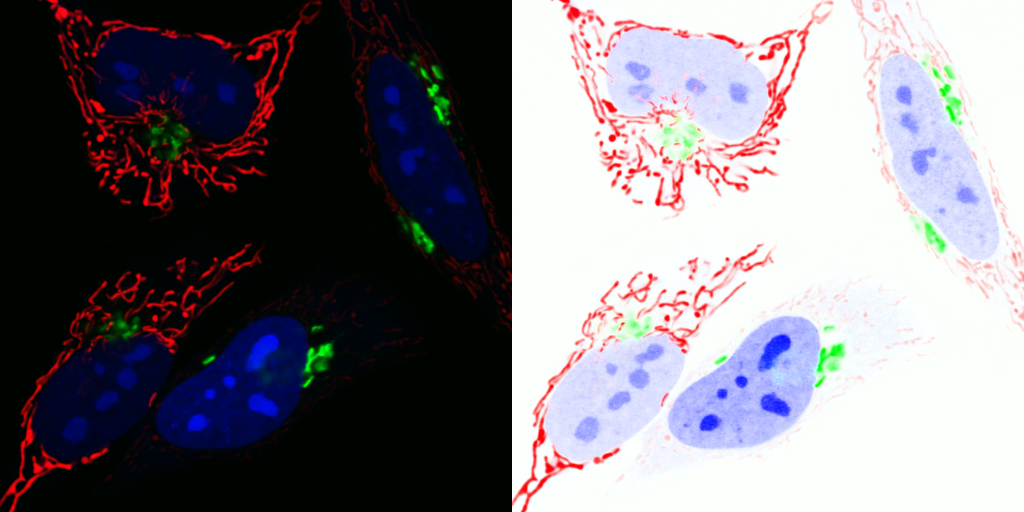
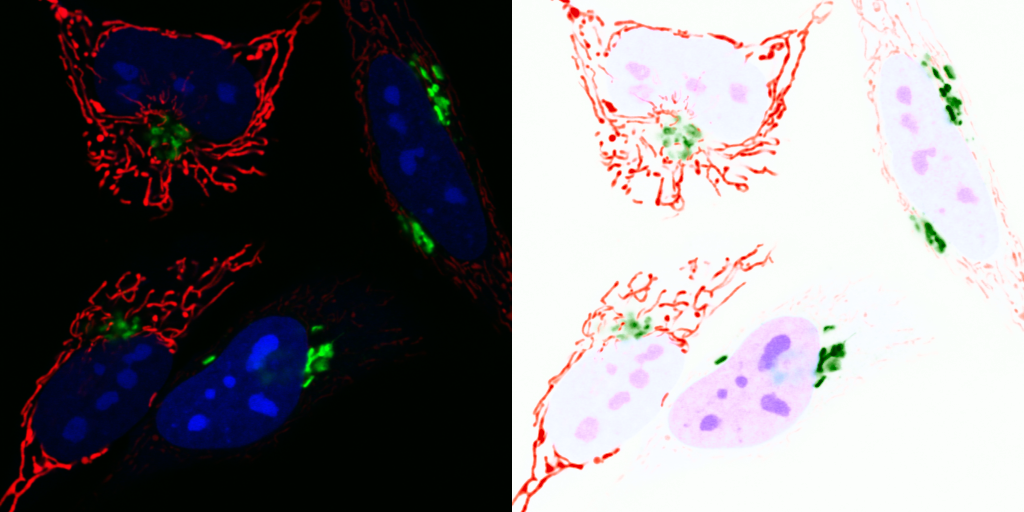
speed up!

Changed region(s): [[0.5312, 0.5938, 0.8438, 0.875], [0.8438, 0.0938, 0.9688, 0.5], [0.5938, 0.0625, 0.75, 0.3125]]

diff --git a/tohsl.py b/tohsl.py
@@ -3,69 +3,86 @@ import colorsys
 
 def custom_rgb_to_hls(r, g, b):
     sumc = r + g + b
-    if sumc < 2.05 and sumc > 1.95:
+    if np.abs(sumc - 2) < 0.05:
         return 0, 0.5, 0  
-    elif sumc < 0.05 and sumc > -0.05:
+    elif np.abs(sumc) < 0.05:
         return 0, 0, 0
     else:
-        h, l, s = colorsys.rgb_to_hls(r, g, b)
-        return h, l, s
+        return colorsys.rgb_to_hls(r, g, b)
 
+# Using Numpy's built-in functionality for broadcasting
 def rgb_to_hls(rgb_image):
     rgb_image = rgb_image.astype(float) / 255.0
-    hls_image = np.vectorize(custom_rgb_to_hls)(rgb_image[..., 0], rgb_image[..., 1], rgb_image[..., 2])
-    hls_image = np.stack(hls_image, axis=-1)
+    hls_image = np.apply_along_axis(lambda x: custom_rgb_to_hls(*x), -1, rgb_image)
     return hls_image
 
 def hls_to_rgb(hls_image):
-    print(np.max(hls_image),np.min(hls_image))
-    print(hls_image[300:500,300,:])
     rgb_converter = np.vectorize(colorsys.hls_to_rgb)
     r, g, b = rgb_converter(hls_image[..., 0], hls_image[..., 1], hls_image[..., 2])
-    rgb_image = np.stack([r, g, b], axis=-1)
-    print(np.max(rgb_image),np.min(rgb_image))
+    return np.stack([r, g, b], axis=-1) * 255
 
-    return (rgb_image * 255).astype(np.uint8) 
+def rgb_to_colorspace(rgb_image, conversion_func):
+    rgb_image = rgb_image.astype(float) / 255.0
+    converted_image = np.vectorize(conversion_func)(rgb_image[..., 0], rgb_image[..., 1], rgb_image[..., 2])
+    return np.stack(converted_image, axis=-1)
 
+def colorspace_to_rgb(color_image, conversion_func):
+    rgb_converter = np.vectorize(conversion_func)
+    r, g, b = rgb_converter(color_image[..., 0], color_image[..., 1], color_image[..., 2])
+    return np.stack([r, g, b], axis=-1) * 255
 
 def rgb_to_hsv(rgb_image):
-    rgb_image = rgb_image.astype(float) / 255.0
-    hsv_image = np.vectorize(colorsys.rgb_to_hsv)(rgb_image[..., 0], rgb_image[..., 1], rgb_image[..., 2])
-    hsv_image = np.stack(hsv_image, axis=-1)
-    return hsv_image
+    return rgb_to_colorspace(rgb_image, colorsys.rgb_to_hsv)
 
 def hsv_to_rgb(hsv_image):
-    rgb_converter = np.vectorize(colorsys.hsv_to_rgb)
-    r, g, b = rgb_converter(hsv_image[..., 0], hsv_image[..., 1], hsv_image[..., 2])
-    rgb_image = np.stack([r, g, b], axis=-1)
-
-    return (rgb_image * 255).astype(np.uint8) 
-
-'''
-def rgb_to_yiq(rgb_image):
-    rgb_image = rgb_image.astype(float) / 255.0
-    yiq_image = np.vectorize(colorsys.rgb_to_yiq)(rgb_image[..., 0], rgb_image[..., 1], rgb_image[..., 2])
-    yiq_image = np.stack(rgb_image, axis=-1)
-    return yiq_image
-
-def yiq_to_rgb(yiq_image):
-    rgb_converter = np.vectorize(colorsys.yiq_to_rgb)
-    r, g, b = rgb_converter(yiq_image[..., 0], yiq_image[..., 1], yiq_image[..., 2])
-    rgb_image = np.stack([r, g, b], axis=-1)
-
-    return (rgb_image * 255).astype(np.uint8) 
-'''
+    return colorspace_to_rgb(hsv_image, colorsys.hsv_to_rgb)
 
 def rgb_to_yiq(rgb_image):
-    rgb_image = rgb_image.astype(float) / 255.0
-    yiq_converter = np.vectorize(colorsys.rgb_to_yiq)
-    y, i, q = yiq_converter(rgb_image[..., 0], rgb_image[..., 1], rgb_image[..., 2])
-    yiq_image = np.stack([y, i, q], axis=-1)
-    return yiq_image
+    return rgb_to_colorspace(rgb_image, colorsys.rgb_to_yiq)
 
 def yiq_to_rgb(yiq_image):
-    rgb_converter = np.vectorize(colorsys.yiq_to_rgb)
-    r, g, b = rgb_converter(yiq_image[..., 0], yiq_image[..., 1], yiq_image[..., 2])
-    rgb_image = np.stack([r, g, b], axis=-1)
+    return colorspace_to_rgb(yiq_image, colorsys.yiq_to_rgb)
 
-    return (rgb_image * 255).astype(np.uint8)
+'''
+def custom_rgb_to_hls(r, g, b):
+    sumc = r + g + b
+    if np.abs(sumc - 2) < 0.05:
+        return 0, 0.5, 0  
+    elif np.abs(sumc) < 0.05:
+        return 0, 0, 0
+    else:
+        return colorsys.rgb_to_hls(r, g, b)
+
+# Using Numpy's built-in functionality for broadcasting
+def rgb_to_hls(rgb_image):
+    rgb_image = rgb_image.astype(float) / 255.0
+    hls_image = np.apply_along_axis(lambda x: custom_rgb_to_hls(*x), -1, rgb_image)
+    return hls_image
+
+def hls_to_rgb(hls_image):
+    rgb_converter = np.vectorize(colorsys.hls_to_rgb)
+    r, g, b = rgb_converter(hls_image[..., 0], hls_image[..., 1], hls_image[..., 2])
+    return np.stack([r, g, b], axis=-1) * 255
+
+def rgb_to_colorspace(rgb_image, conversion_func):
+    rgb_image = rgb_image.astype(float) / 255.0
+    converted_image = np.vectorize(conversion_func)(rgb_image[..., 0], rgb_image[..., 1], rgb_image[..., 2])
+    return np.stack(converted_image, axis=-1)
+
+def colorspace_to_rgb(color_image, conversion_func):
+    rgb_converter = np.vectorize(conversion_func)
+    r, g, b = rgb_converter(color_image[..., 0], color_image[..., 1], color_image[..., 2])
+    return np.stack([r, g, b], axis=-1) * 255
+
+def rgb_to_hsv(rgb_image):
+    return rgb_to_colorspace(rgb_image, colorsys.rgb_to_hsv)
+
+def hsv_to_rgb(hsv_image):
+    return colorspace_to_rgb(hsv_image, colorsys.hsv_to_rgb)
+
+def rgb_to_yiq(rgb_image):
+    return rgb_to_colorspace(rgb_image, colorsys.rgb_to_yiq)
+
+def yiq_to_rgb(yiq_image):
+    return colorspace_to_rgb(yiq_image, colorsys.yiq_to_rgb)
+'''

diff --git a/app.py b/app.py
@@ -25,10 +25,18 @@ def invert_yiq(image_data):
     negative_image[:, :, 0] = 1 - negative_image[:, :, 0]
     return yiq_to_rgb(negative_image)
 
+def invert_lab(image_data):
+    lab_image = color.rgb2lab(image_data)
+    negative_lab_image = lab_image.copy()
+    negative_lab_image[:, :, 0] = 100 - negative_lab_image[:, :, 0] 
+    # negative_image = (negative_lab_image * 255).astype(np.uint8)
+    return color.lab2rgb(negative_lab_image)
+
 conversion_funcs = {
     'rgb': util.invert,
     'hls': invert_hls,
     'yiq': invert_yiq,
+    'lab': invert_lab
 }
 
 def ensure_non_negative(image):
@@ -119,15 +127,11 @@ def server(input, output, session):
         file_infos: list[FileInfo] = input.file()
         if input.demos() == 'demo1' or input.demos() == 'demo2':
             path = f'demo_input/{input.demos()}.png'
-            image_data = io.imread(path)
-            image_data = np.array(image_data)
-            # raise SilentException()
+            image_data = np.array(io.imread(path))
         else:
             if not file_infos:
                 return 
-            file_info = file_infos[0]
-            img = Image.open(file_info["datapath"])
-            # Convert to numpy array for skimage processing
+            img = Image.open(file_infos[0]["datapath"])
             image_data = np.array(img)
 
         image_data = image_data[:, :, :3]
